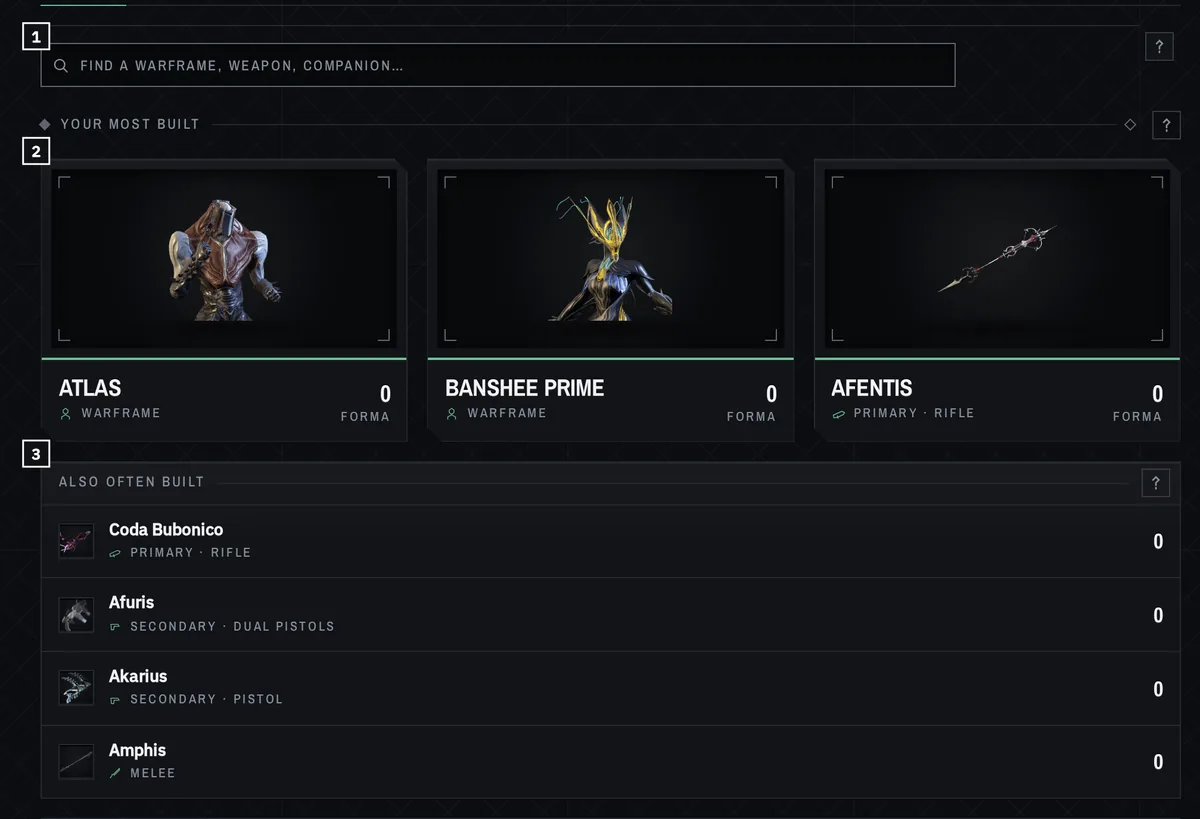
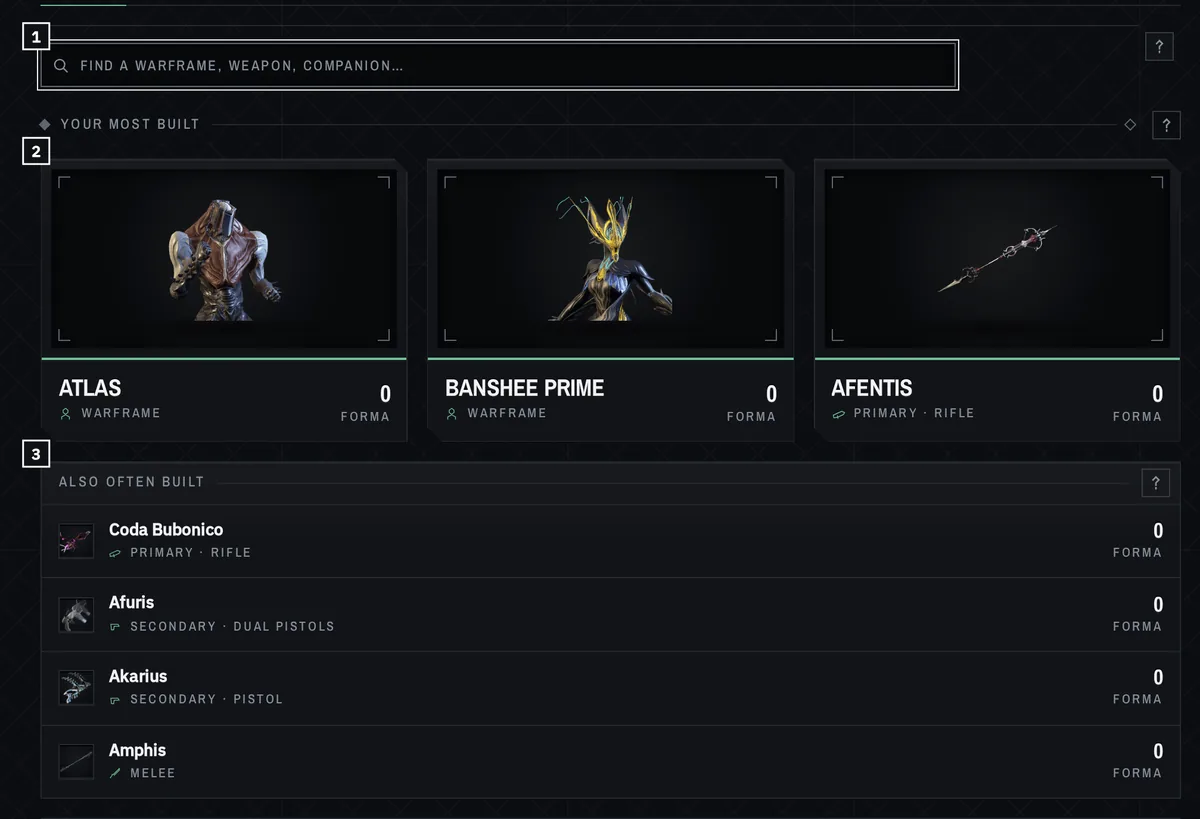
Builds: Also often built says what its figure counts
Each row of "Also often built" drew its figure alone: a count of builds
when there are saved builds, the Forma on the player's copy when there
are none. The cards just above draw the same figure with its unit, so
the list showed a column of bare numbers under cards that said
"0 FORMA". The row now draws its unit under the figure, as the cards do.

diff --git a/src/lib/tabs/Builds.svelte b/src/lib/tabs/Builds.svelte
@@ -585,7 +585,7 @@
                   <li><button type="button" title="Builds for {r.name}" onclick={() => choose(r.unique)}>
                     <Thumb file={model.imageOf(r.name)} size={30} />
                     <span class="an"><b>{r.name}</b><span class="register"><Kind kind={r.label} size={11} /></span></span>
-                    <span class="af mark">{r.fig}</span>
+                    <span class="af"><b class="mark">{r.fig}</b><span class="register">{r.unit}</span></span>
                   </button></li>
                 {/each}
               </ul>
@@ -770,7 +770,10 @@
   .an { display: grid; gap: 2px; min-width: 0; }
   .an b { font-weight: 600; color: var(--platinum); overflow: hidden; text-overflow: ellipsis; white-space: nowrap; }
   .an .register { font-size: 11px; }
-  .af { font-size: 18px; color: var(--platinum); font-variant-numeric: tabular-nums; }
+  /* The figure with its unit under it, as the cards above have it: builds, or Forma. */
+  .af { display: grid; justify-items: end; gap: 2px; }
+  .af b { font-size: 18px; line-height: 1; color: var(--platinum); font-variant-numeric: tabular-nums; }
+  .af .register { font-size: 11px; }
   .recentb { position: relative; }
   .recentb :is(th, td):last-child { padding-right: 42px; }
   .recentb table { width: 100%; border-collapse: collapse; background: none; }

diff --git a/tests/buildsFigureUnit.test.ts b/tests/buildsFigureUnit.test.ts
@@ -1,0 +1,25 @@
+// Builds' "Your most built" and "Also often built": a row's figure is a count of builds (from saved
+// builds) or the Forma on your copy (without them), so it is drawn with its unit wherever it is
+// drawn. "Also often built" once drew a bare "0" under cards that said "0 FORMA".
+import { test } from "node:test";
+import assert from "node:assert/strict";
+import { readFileSync } from "node:fs";
+
+const src = readFileSync(new URL("../src/lib/tabs/Builds.svelte", import.meta.url), "utf8");
+
+test("every place a most-built row's figure is drawn, its unit is drawn beside it", () => {
+  const figs = [...src.matchAll(/\{r\.fig\}/g)];
+  assert.ok(figs.length >= 2, "the cards and the Also often built list");
+  for (const m of figs) {
+    // The figure's own element and the one after it: the unit sits within the same few tags.
+    const after = src.slice(m.index, m.index + 120);
+    assert.match(after, /\{r\.unit\}/, `a figure without its unit: ${src.slice(Math.max(0, m.index - 60), m.index + 40)}`);
+  }
+});
+
+test("Also often built draws the unit", () => {
+  const also = src.slice(src.indexOf('<ul class="also">'), src.indexOf("</ul>", src.indexOf('<ul class="also">')));
+  assert.ok(also.length > 0);
+  assert.match(also, /\{r\.fig\}/);
+  assert.match(also, /\{r\.unit\}/);
+});
